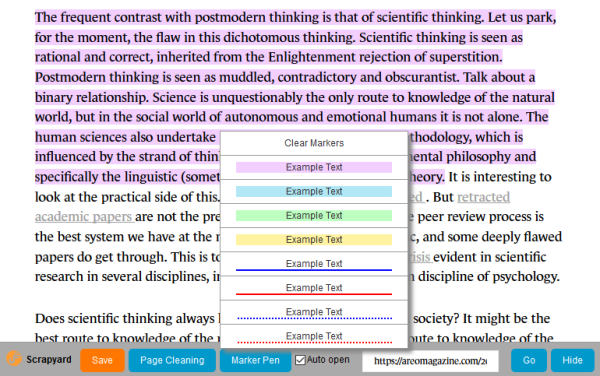
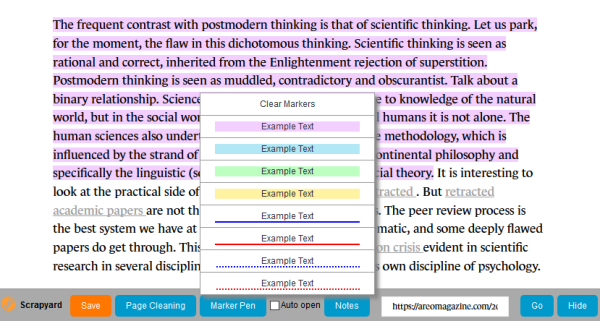
updated help

diff --git a/addon/_locales/en/help.html b/addon/_locales/en/help.html
@@ -79,7 +79,7 @@
 
     <h3>Markers</h3>
     <p>If you often review your captures, it may be useful to highlight important key points.
-        To make this possible, at every archived page the editing toolbar provides a set of text markers and also allows
+        At every archived page there is a editing toolbar, which provides several text markers and also allows
         to clean pages of unnecessary elements.</p>
 
     <p style="text-align: center">
@@ -87,7 +87,18 @@
     </p>
 
     <p>The "Auto open" check makes the marker menu to open automatically when some text is selected.</p>
-    <p>IMPORTANT: it is necessary to manually save changes after the editing is done.</p>
+
+    <h3>Notes</h3>
+
+    <p>It is possible to attach notes to every bookmark or even create dedicated note-only bookmarks. The notes may
+    contain a brief document summary or any other relevant information and should be entered in
+    <a href="https://orgmode.org/manual/Markup.html" target="_blank">org-mode markup</a>. It is also possible to attach a short
+        style-sheet to modify their appearance. Insert an example markup at the note editor to explore what options are
+    available.</p>
+
+    <p style="text-align: center">
+        <img src="_locales/en/images/notes.png">
+    </p>
 
     <h2>Advanced features</h2>
 

diff --git a/addon/options.html b/addon/options.html
@@ -201,7 +201,7 @@
                 <td>Style</td>
                 <td>
                     <div class="panel" id="style" style="display: flex;">
-                        <p>
+                        <p style="padding-left: 18px;">
                         <a href="#" id="copy-style-link">Copy</a> dark theme code for userContent.css
                         (<a href="https://overdodactyl.github.io/ShadowFox/" target="_blank">ShadowFox</a> is required)
                         <i class="help-mark"></i>

diff --git a/addon/notes.html b/addon/notes.html
@@ -15,7 +15,7 @@
         <div id="tabbar">
         </div>
         <div id="content">
-            <div id="content-notes-button" class="content"><div id="notes"></div></div>
+            <div id="content-notes-button" class="content"><div id="notes" class=".notes"></div></div>
             <div id="content-edit-button" class="content"><textarea id="editor"></textarea></div>
         </div>
         <div id="bottomline">

diff --git a/addon/edit-bootstrap.js b/addon/edit-bootstrap.js
@@ -36,6 +36,10 @@ function receiveMessage(event) {
         if (bar)
             bar.parentNode.removeChild(bar);
 
+        let bootstrap_nodes = doc.querySelectorAll("*[id^='scrapyard-archive']");
+        for (let node of bootstrap_nodes)
+            node.parentNode.removeChild(node);
+
         browser.runtime.sendMessage({
             type: 'UPDATE_ARCHIVE',
             id: parseInt(location.hash.split(":")[1]),

diff --git a/addon/notes.js b/addon/notes.js
@@ -5,7 +5,7 @@ import {NODE_TYPE_ARCHIVE, NODE_TYPE_BOOKMARK, NODE_TYPE_NOTES} from "./db.js";
 const INPUT_TIMEOUT = 1000;
 
 let ORG_EXAMPLE = `#+OPTIONS: toc:t num:nil
-#+CSS: #notes {width: 600px;} p {text-align: justify;}
+#+CSS: .notes {width: 600px;} p {text-align: justify;}
 
 Supported [[http://orgmode.org/][org-mode]] markup features:
 

diff --git a/addon/options.css b/addon/options.css
@@ -194,13 +194,14 @@ h2{
 
 form
 {
-    margin-bottom: 3px;
+    margin-bottom: 0;
 }
 
 fieldset {
     border-radius: 5px;
-    border:1px solid #777;
-    vertical-align:middle;
+    border: 1px solid #777;
+    vertical-align: middle;
+    line-height: 20px;
 }
 
 fieldset > div

diff --git a/addon/org.css b/addon/org.css
@@ -234,11 +234,11 @@ span.task-status.done {
     font-size : 80%;
 }
 
-#content ul {
+#toc ul {
     list-style: none;
     padding-left: 20px;
 }
 
-#content a {
+#toc a {
     text-decoration: none;
 }

diff --git a/addon/notes.css b/addon/notes.css
@@ -86,6 +86,7 @@ a#notes-button.focus, a#edit-button.focus{
 #notes > ul#toc {
     padding-left: 0;
     margin-top: 0;
+    list-style: none;
 }
 
 #content-notes-button, #content-edit-button {
